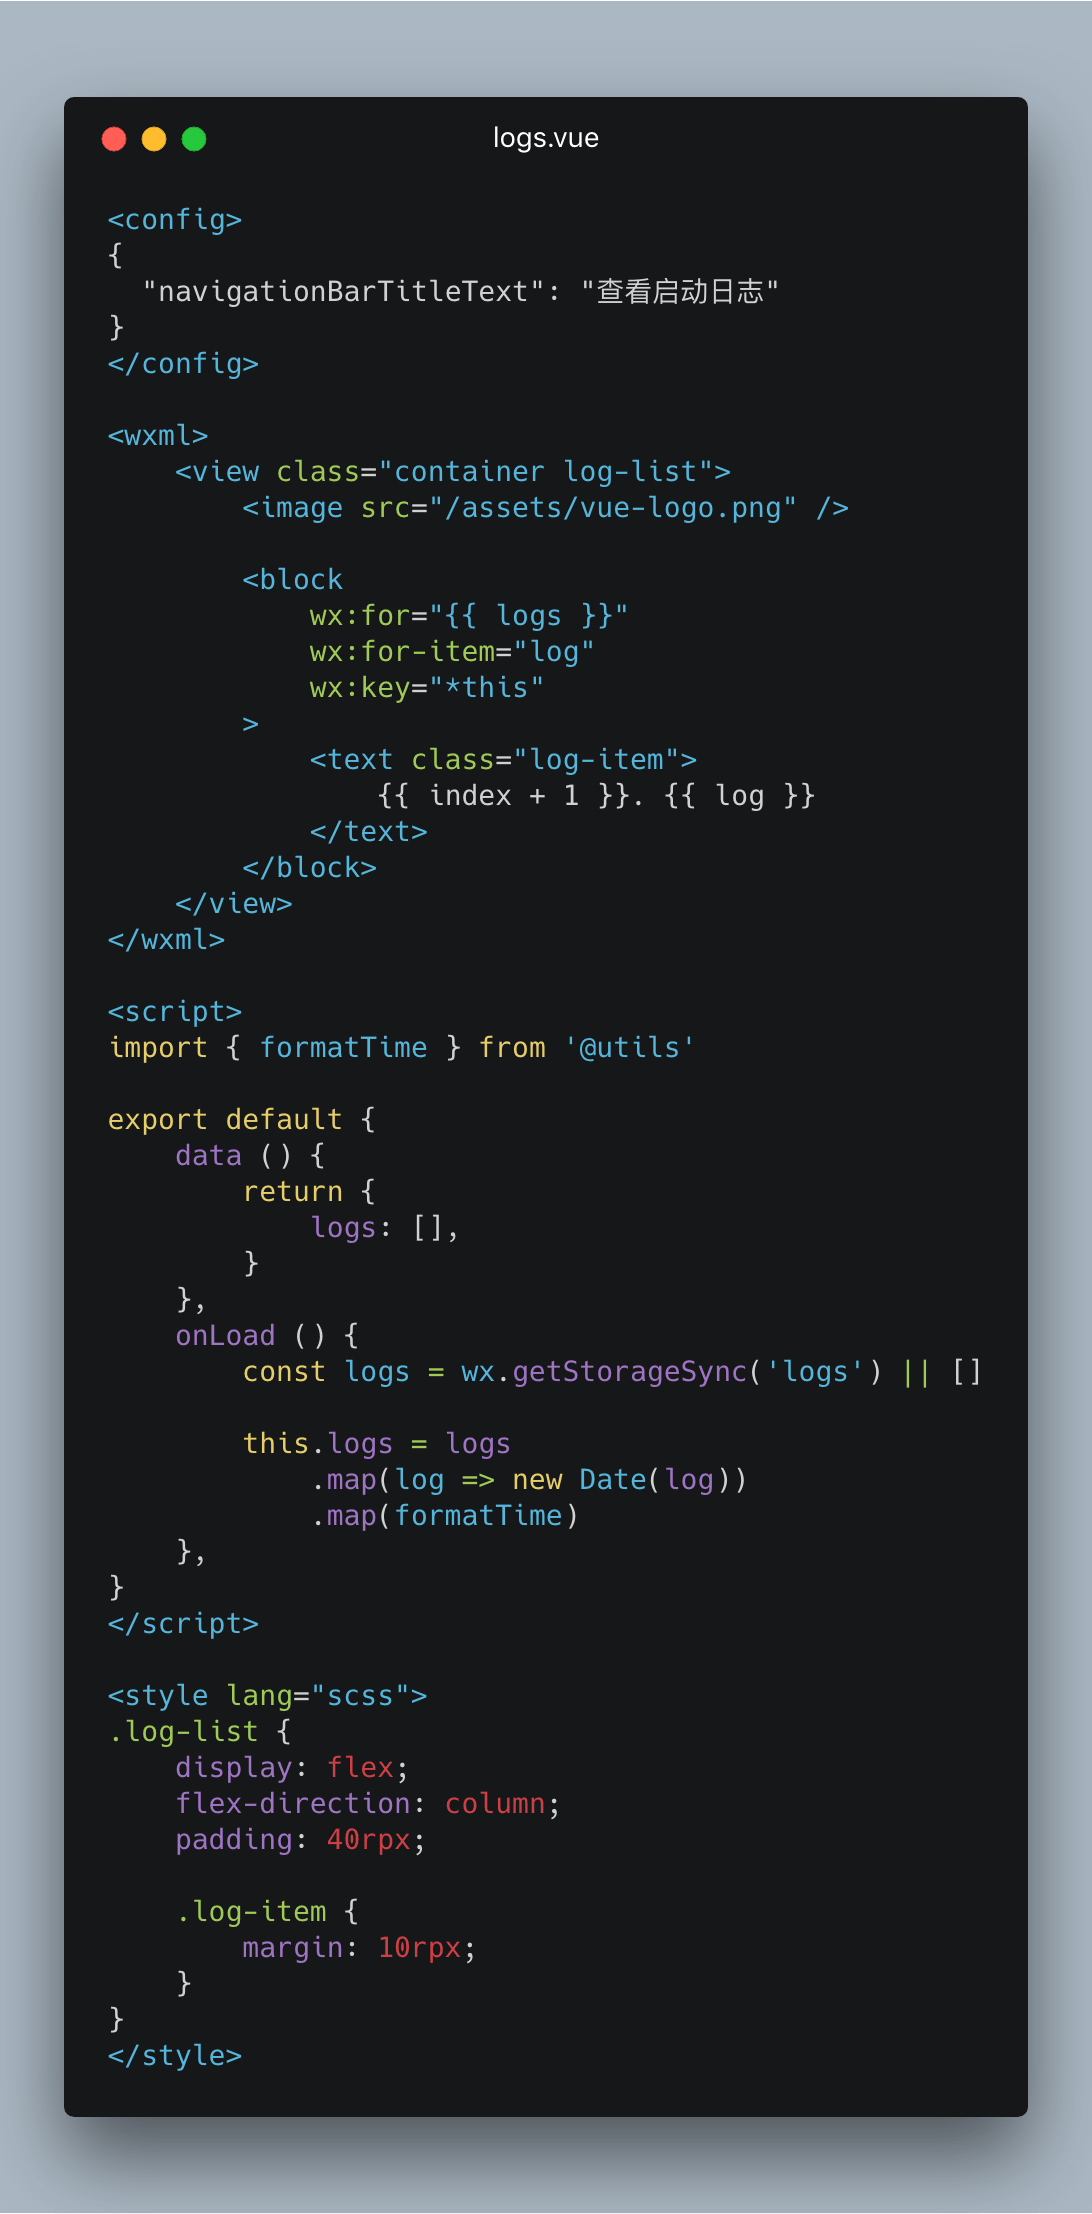
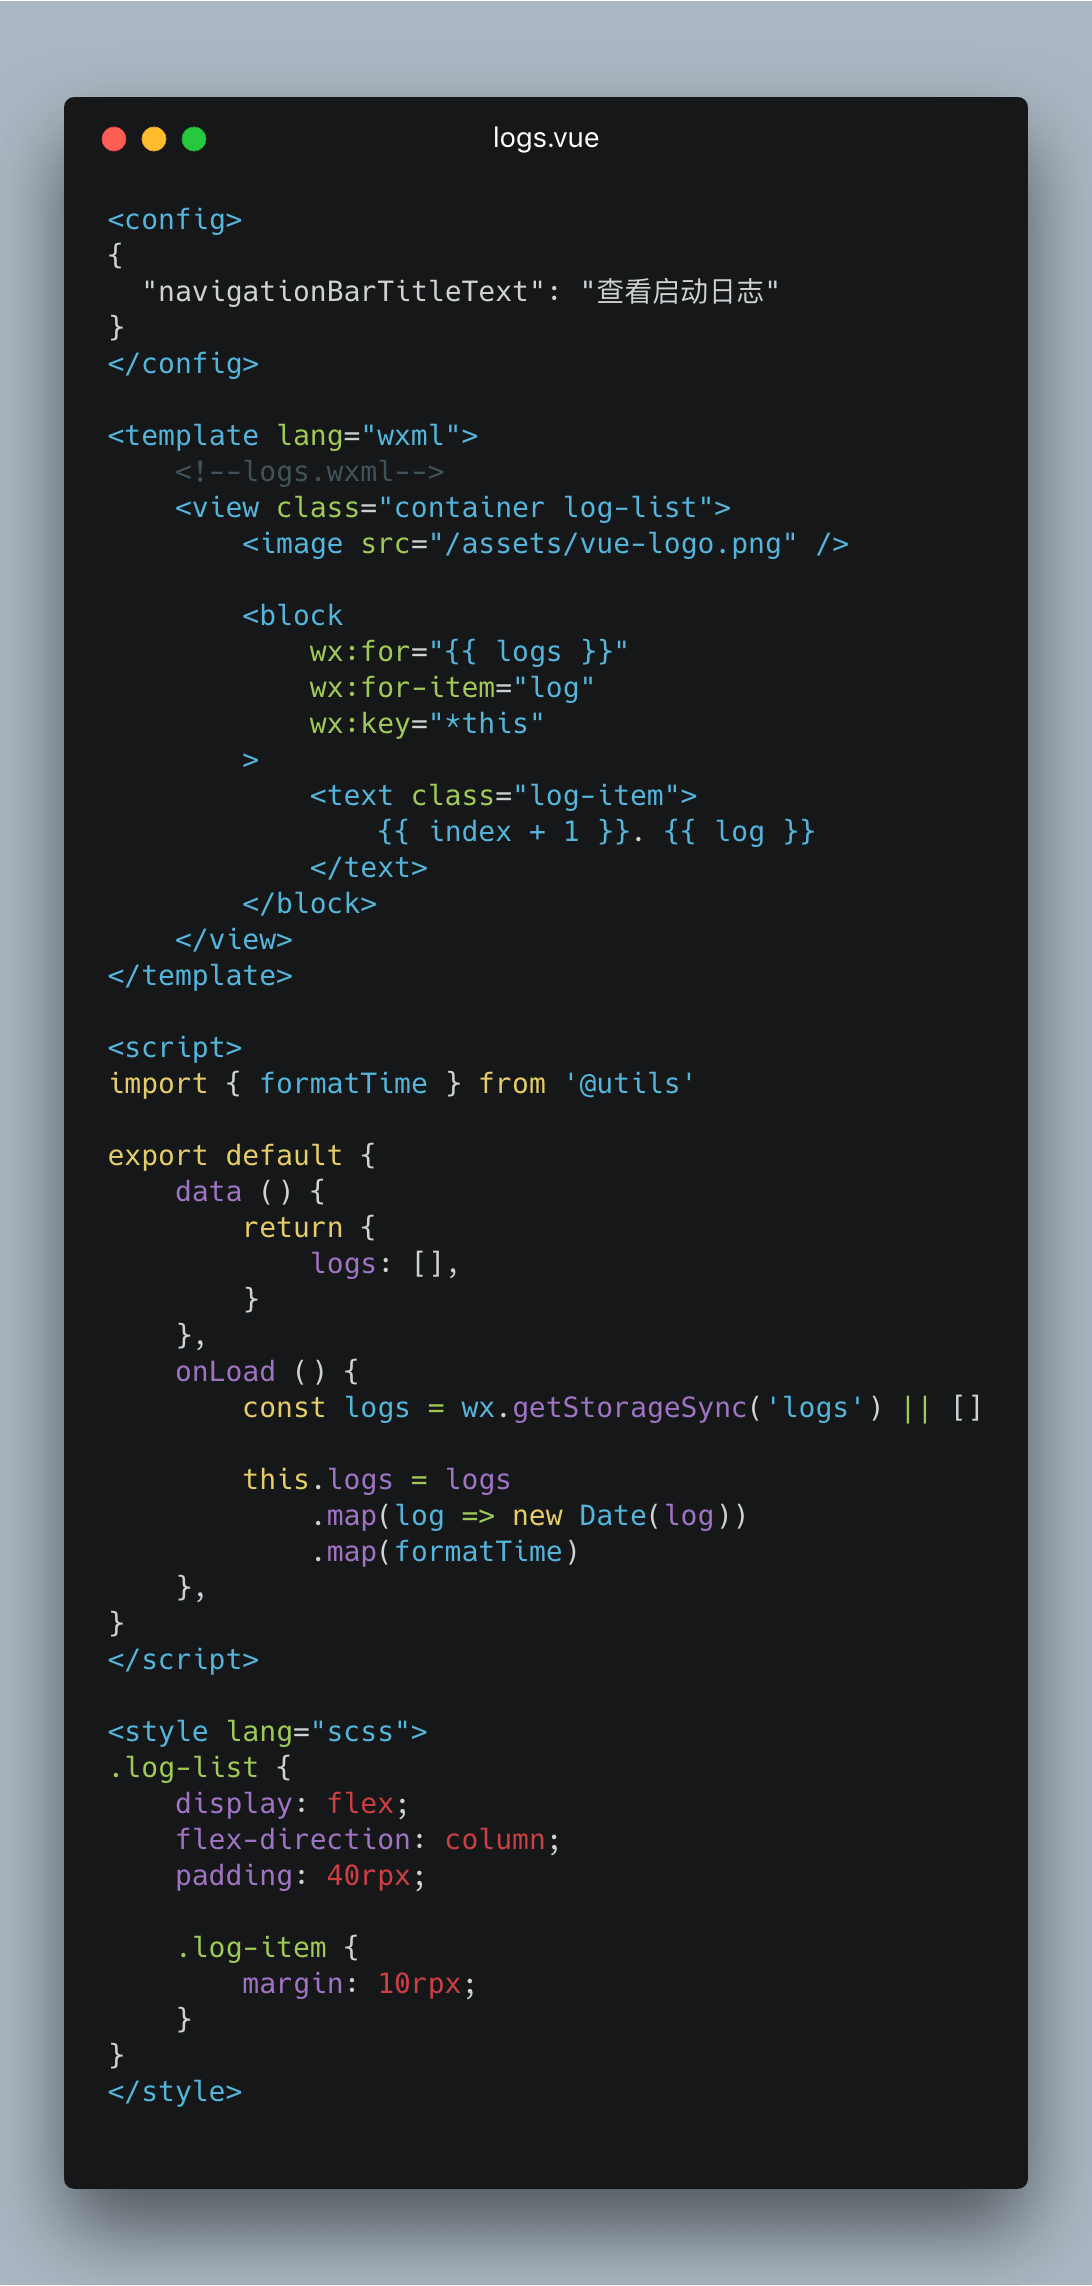
perf(md, examples): <wxml> -> <template lang="wxml">

diff --git a/examples/webpack-three/webpack.config.babel.js b/examples/webpack-three/webpack.config.babel.js
@@ -72,7 +72,13 @@ export default ({ isDev }) => ({
                         extract: true,
                         debug: isDev,
                     }),
-                }
+                    compiler: {
+                        // mock vue-template-compiler
+                        compile: () => ({
+                            staticRenderFns: [],
+                        })
+                    },
+                },
             },
             {
                 // 处理 <config>{...}</config> 代码块
@@ -88,9 +94,9 @@ export default ({ isDev }) => ({
                 },
             },
             {
-                // 处理 <wxml>{...}</wxml> 代码块
+                // 处理 <template lang="wxml">{...}</template>
                 // 生成 .wxml 文件
-                resourceQuery: /blockType=wxml/,
+                test: /\.wxml$/,
                 use: {
                     loader: 'file-loader',
                     options: {

diff --git a/examples/webpack-three/src/pages/index/index.vue b/examples/webpack-three/src/pages/index/index.vue
@@ -4,7 +4,7 @@
 }
 </config>
 
-<wxml>
+<template lang="wxml">
     <view class="container" catchtap="gotoLogs">
         <view class="box">msg: {{ msg }}</view>
         <button type="primary" size="mini" catchtap="tapMsg">
@@ -53,7 +53,7 @@
             this.a.b = 'a.b' + n++
         </button>
     </view>
-</wxml>
+</template>
 
 <script>
 import { log } from '@utils'

diff --git a/examples/webpack-three/src/pages/logs/logs.vue b/examples/webpack-three/src/pages/logs/logs.vue
@@ -4,7 +4,7 @@
 }
 </config>
 
-<wxml>
+<template lang="wxml">
     <!--logs.wxml-->
     <view class="container log-list">
         <image src="/assets/vue-logo.png" />
@@ -19,7 +19,7 @@
             </text>
         </block>
     </view>
-</wxml>
+</template>
 
 <script>
 import { formatTime } from '@utils'

diff --git a/README.md b/README.md
@@ -94,7 +94,7 @@ $ yarn add tua-mp
 
 在这个例子中的单文件组件和一般 web 端的单文件组件有所不同：
 
-1.页面的模板我们使用的不是 `<template>` 而是自定义块 `<wxml>`（因为没法禁用 `vue-template-compiler`）
+1.页面的模板我们使用的是 `<template lang="wxml">...</template>`
 
 2.添加了一个 `<config>` 的自定义块，用于填写**页面**的配置（即原来的 `.json`）
 

diff --git a/examples/webpack-three/README.md b/examples/webpack-three/README.md
@@ -9,7 +9,7 @@
 
 在这个例子中的单文件组件和一般 web 端的单文件组件有所不同：
 
-1.页面的模板我们使用的不是 `<template>` 而是自定义块 `<wxml>`（因为没法禁用 `vue-template-compiler`）
+1.页面的模板我们使用的是 `<template lang="wxml">...</template>`
 
 2.添加了一个 `<config>` 的自定义块，用于填写**页面**的配置（即原来的 `.json`）
 
